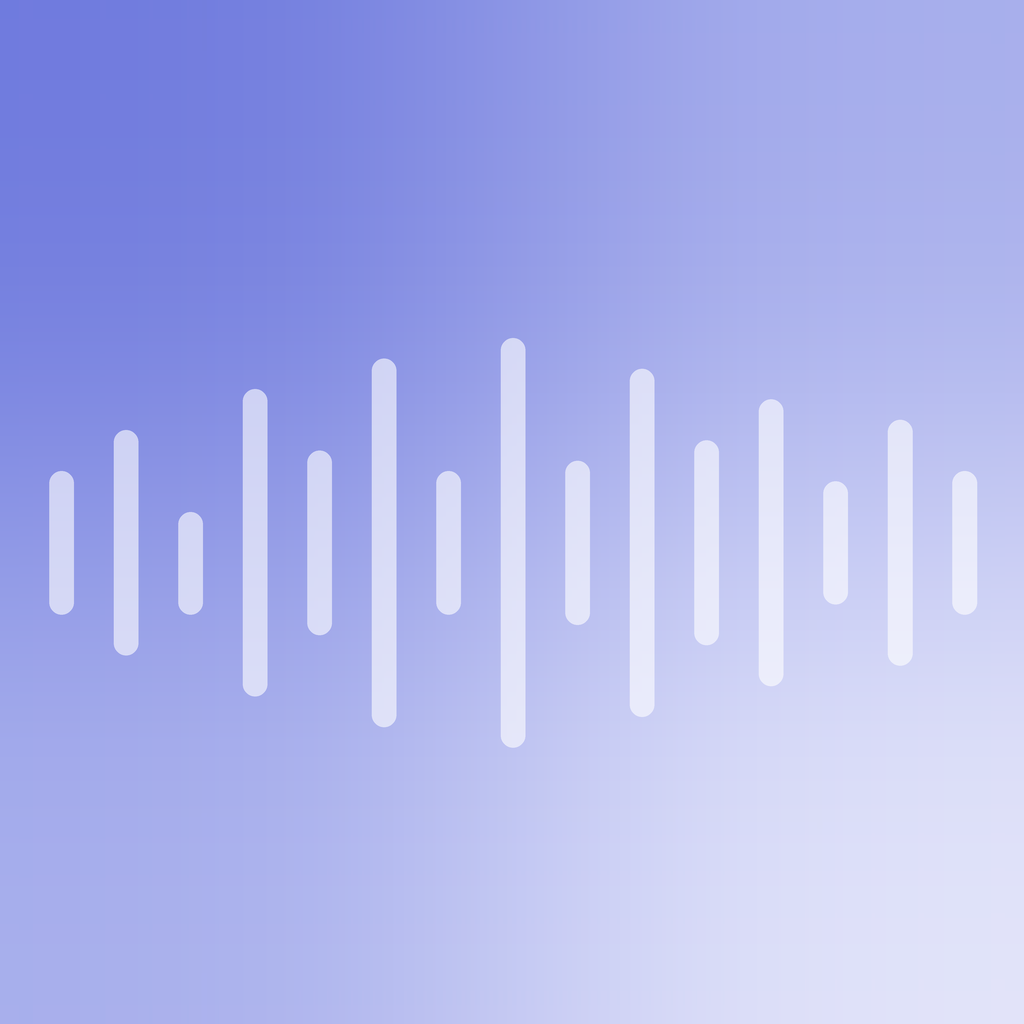
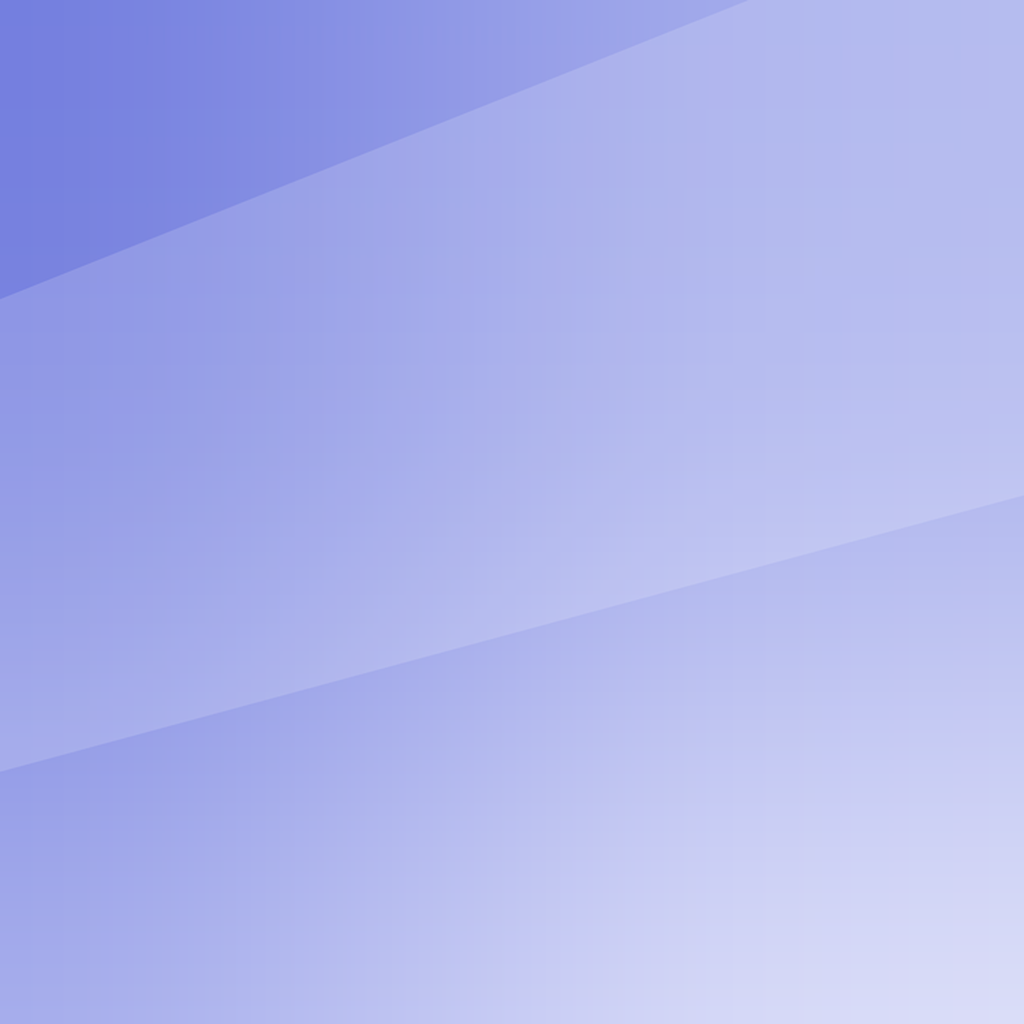
feat: アプリアイコンを刷新(波形入りクリップボードを見るシマエナガちゃん)
スタンプ抜き・うりつみとキャラの向きが被らないよう、左に立って右の
クリップボードを見る構図に変更。iOS/Androidで見た目のズームを統一する
ため、等倍描画してから同じ範囲でクロップ&リサイズする方式に揃えた。

Changed region(s): [[0.0312, 0.0938, 0.9688, 0.75]]

diff --git a/design/icons/gen_reporoku_assets.py b/design/icons/gen_reporoku_assets.py
@@ -1,9 +1,10 @@
 """レポろく アプリアイコン生成スクリプト(これが唯一の正)。
 
 アイコンを調整するときはこのファイルだけを編集する。
-座標は Claude との検討チャットで固まった「マイクを構えるシマエナガちゃん」構図
-(ペリウィンクルのグラデーション背景 / 正面向きの白いシマエナガ / スタンドマイク /
-背景を横切る白いイコライザー / 右上の録音ドット)をそのまま数値化したもの。
+座標は Claude との検討チャットで固まった「波形入りクリップボードを見るシマエナガちゃん」
+構図(ペリウィンクルのグラデーション背景 / 画面左のシマエナガ / 右の波形入り
+クリップボード)をそのまま数値化したもの。スタンプ抜き(正面)・うりつみ(右で左向き)
+とキャラの向き・位置が被らないよう、左に立って右のクリップボードを見る構図にしている。
 
     python3 gen_reporoku_assets.py            # プレビューを out/ に生成
     python3 gen_reporoku_assets.py --install  # app.json が参照する assets/ へ書き出し
@@ -36,18 +37,38 @@ WING = '#D8D8DC'
 ORANGE = '#FF9500'
 EYE = '#1C1C1E'
 CHEEK = '#FFD0D9'            # rgba(255,150,170,0.45) を白地に不透明合成した色
-MIC = '#3A3A3C'
+TAIL = '#3A3A3C'             # スタンプ抜き・うりつみと同じ尾の色
 GRILLE = '#D8D8DC'
-EQ_ALPHA = 153                # 白 60% 相当 (0-255)
+BAND_ALPHA = 40              # 背景を横切る白い帯の不透明度(うりつみと同じ)
+WOOD = '#B98452'             # クリップボード背面の木の板
+WOOD_DARK = '#9C6C3F'        # 木の板の縁(立体感)
+PAPER = '#F7F5EF'            # クリップボードの用紙
+CLIP = '#9498A6'             # クリップボードの金具
+
+# クリップボードを斜めに持っている角度と、回転の軸(鳥の羽が触れているあたり)。
+CLIP_TILT_DEG = -28
+CLIP_PIVOT = (58, 79)
+# クリップボード自体の大きさ(鳥に対する相対サイズ)。CLIP_PIVOT を中心に縮小する。
+CLIP_SCALE = 0.75
+# クリップボード全体を(dx, dy)だけずらす。羽(手)の位置に持っていくために使う。
+CLIP_POS = (38, -45)
+# クリップボードを左右反転させるか。
+CLIP_FLIP = True
+
+# シマエナガちゃんを時計回りに傾ける角度と、回転の軸(足元)。
+# 主役の傾きはクリップボード側。鳥は直立に近い、控えめな傾きにとどめる。
+BIRD_TILT_DEG = -10
+BIRD_PIVOT = (29, 82)
+
+# 本番アイコンに焼き込む「寄り」(検討時に気に入られた zoom_final.png のクロップを
+# ox/oy/scale に変換したもの。1024px 中 (150,20)-(990,730) のクロップに相当)。
+FULL_ZOOM_CROP = (220, 0, 970, 750)  # 750x750 の正方形。もっと寄った見た目
 REC = '#FF3B30'
 REC_PILL = (0, 0, 0, 140)     # 黒 55% 相当
 FONT_TEXT = '/System/Library/Fonts/Supplemental/Arial Bold.ttf'
 
 # Android の adaptiveIcon.backgroundColor(フォールバック)。app.json と一致させる。
 ANDROID_BG_COLOR = '#9AA0E8'
-
-# 108dp 中 66dp の円 = 全マスクで確実に残る範囲。半径は canvas 比で 0.3056。
-ADAPTIVE_SAFE_R = (66.0 / 108.0) / 2.0
 
 # Play ストア掲載用アイコン。Google 側の規定(512x512, 1MB 以下, アルファ不可)。
 STORE_ICON_SIZE = 512
@@ -58,14 +79,16 @@ STORE_ICON_MAX_BYTES = 1024 * 1024
 # 全ての図形は 100 基準の (x, y) で書く。Scene が (offset, scale) を
 # 適用してからスーパーサンプリング解像度のピクセルに変換する。
 class Scene:
-    def __init__(self, draw, ox=50.0, oy=50.0, scale=1.0):
+    def __init__(self, draw, ox=50.0, oy=50.0, scale=1.0, flip=False):
         self.d = draw
         self.ox = ox
         self.oy = oy
         self.s = scale
+        self.flip = flip  # True なら x を 100-x に鏡映してから配置する
 
     def xy(self, x, y):
-        return (self.ox + (x - 50.0) * self.s, self.oy + (y - 50.0) * self.s)
+        xx = (100.0 - x) if self.flip else x
+        return (self.ox + (xx - 50.0) * self.s, self.oy + (y - 50.0) * self.s)
 
     def pt(self, x, y):
         px, py = self.xy(x, y)
@@ -85,9 +108,12 @@ class Scene:
         ], fill=fill)
 
     def rounded_rect(self, x, y, w, h, r, fill):
-        ox, oy = self.xy(x, y)
+        # 両端を個別に xy() へ通してから min/max で正規化する。
+        # こうしておくと flip=True で x が鏡映されても矩形が壊れない。
+        x0, y0 = self.xy(x, y)
+        x1, y1 = self.xy(x + w, y + h)
         self.d.rounded_rectangle([
-            ox * S, oy * S, (ox + w * self.s) * S, (oy + h * self.s) * S,
+            min(x0, x1) * S, min(y0, y1) * S, max(x0, x1) * S, max(y0, y1) * S,
         ], radius=max(1.0, r * self.s * S), fill=fill)
 
     def polygon(self, pts, fill):
@@ -104,64 +130,113 @@ class Scene:
         bbox = self.d.textbbox((0, 0), s, font=font)
         self.d.text((px - bbox[0], py - (bbox[1] + bbox[3]) / 2), s, font=font, fill=fill)
 
-    def eye_closed(self, cx, cy, half_w, depth=3):
-        # SVG の "M cx-w,cy Q cx,cy+depth cx+w,cy" と同じ 2 次ベジェ曲線。
-        p0 = (cx - half_w, cy)
-        c = (cx, cy + depth)
-        p2 = (cx + half_w, cy)
-        pts = []
-        n = 16
-        for i in range(n + 1):
-            t = i / n
-            mt = 1 - t
-            x = mt * mt * p0[0] + 2 * mt * t * c[0] + t * t * p2[0]
-            y = mt * mt * p0[1] + 2 * mt * t * c[1] + t * t * p2[1]
-            pts.append((x, y))
-        w = 1.5
-        self.d.line(self.pts(*pts), fill=EYE, width=int(round(self.length(w))), joint='curve')
-        self.ellipse(p0[0], p0[1], w / 2, w / 2, EYE)
-        self.ellipse(p2[0], p2[1], w / 2, w / 2, EYE)
+    def eye_v(self, cx, cy, s, mirror=False):
+        # うりつみと同じ「>」「<」形の、くしゃっと閉じた目。内側に尖った折れ線。
+        m = -1 if mirror else 1
+        pts = [(cx - m * s, cy - s * 0.75), (cx + m * s * 0.55, cy), (cx - m * s, cy + s * 0.75)]
+        self.line(pts, EYE, 1.6)
+
+    def foot(self, hip, tip, w=2.0):
+        """脚1本。うりつみと同じく、指は脚の向きを基準に開くので、
+        傾けて持ち上げても足首の角度が揃う。"""
+        hx, hy = hip
+        tx, ty = tip
+        self.line([(hx, hy), (tx, ty)], ORANGE, w)
+        ux, uy = tx - hx, ty - hy
+        n = math.hypot(ux, uy) or 1.0
+        ux, uy = ux / n, uy / n
+        px, py = -uy, ux
+        r = 1.6
+        self.line([
+            (tx - px * r + ux * 0.6, ty - py * r + uy * 0.6),
+            (tx, ty),
+            (tx + px * r + ux * 0.6, ty + py * r + uy * 0.6),
+        ], ORANGE, w)
 
 
-EQ_BARS = [
-    (4.8, 46, 14), (11.1, 42, 22), (17.4, 50, 10), (23.7, 38, 30), (30, 44, 18),
-    (36.3, 35, 36), (42.6, 46, 14), (48.9, 33, 40), (55.2, 45, 16), (61.5, 36, 34),
-    (67.8, 43, 20), (74.1, 39, 28), (80.4, 47, 12), (86.7, 41, 24), (93, 46, 14),
-]
+
+def draw_clipboard(sc):
+    """右側の小道具:木の板を背面に持つ、波形入りクリップボード。
+    録音がノートになることを示す。斜めに持っている見た目にするため、
+    このレイヤーは呼び出し側で回転してから合成する。"""
+    # 背面の木の板(紙より一回り大きく、縁を少し暗くして立体感を出す)
+    sc.rounded_rect(51, 21, 41, 65, 5, WOOD_DARK)
+    sc.rounded_rect(52, 21.6, 39, 63, 4.6, WOOD)
+    # 用紙
+    sc.rounded_rect(57, 29, 30, 53, 3, PAPER)
+    # クリップの金具(板の上端を挟む)
+    sc.rounded_rect(65.5, 15, 13, 13, 3, CLIP)
+    sc.rounded_rect(68.5, 18.8, 7, 4, 1.5, PAPER)
+    # 波形(録音の記録であることを示す。用紙の中身だけ左右反転)
+    for x, h in [
+        (62, 16), (65.5, 10), (69, 18), (72.5, 12), (76, 22),
+        (79.5, 14), (83, 8),
+    ]:
+        sc.rounded_rect(x, 45 - h / 2, 2.2, h, 1.1, ORANGE)
+    # 書き起こしたメモの行(右寄せに反転)
+    sc.rounded_rect(61, 61, 21, 3, 1.5, GRILLE)
+    sc.rounded_rect(67, 67, 15, 3, 1.5, GRILLE)
+    sc.rounded_rect(64, 73, 18, 3, 1.5, GRILLE)
 
 
-def draw_eq(sc, alpha_img_draw):
-    """背景を横切る白いイコライザー。半透明なので専用レイヤーに描く。"""
-    for x, y, h in EQ_BARS:
-        sc.rounded_rect(x, y, 2.4, h, 1.2, (255, 255, 255, EQ_ALPHA))
+def render_clipboard_layer(ox, oy, scale):
+    """クリップボード一式を CLIP_PIVOT を中心に CLIP_SCALE 倍したうえで、
+    同じ点を軸に斜めへ回転させたレイヤーを返す。"""
+    layer = new_canvas()
+    d = ImageDraw.Draw(layer, 'RGBA')
+    inner_scale = scale * CLIP_SCALE
+    ax, ay = CLIP_PIVOT
+    dx, dy = CLIP_POS
+    # flip 時は xy() が x を (100-x) に鏡映するため、CLIP_PIVOT が動かないよう
+    # 「実際に使われる x」(eff_ax) で打ち消し量を計算し直す。
+    eff_ax = (100.0 - ax) if CLIP_FLIP else ax
+    inner_ox = ox + (ax - 50.0) * scale - (eff_ax - 50.0) * inner_scale + dx * inner_scale
+    inner_oy = oy + (ay - 50.0) * scale * (1 - CLIP_SCALE) + dy * inner_scale
+    sc = Scene(d, ox=inner_ox, oy=inner_oy, scale=inner_scale, flip=CLIP_FLIP)
+    draw_clipboard(sc)
+    pivot_px = sc.pt(*CLIP_PIVOT)
+    # 反射(flip)のあとに回転すると、回転の向きが打ち消し合う形になるため、
+    # flip 時は角度の符号を反転させて本当の鏡映結果にする。
+    tilt = -CLIP_TILT_DEG if CLIP_FLIP else CLIP_TILT_DEG
+    return layer.rotate(tilt, resample=Image.BICUBIC, center=pivot_px)
 
 
-def draw_illustration(sc, d):
-    # 体
-    sc.ellipse(50, 54, 29, 31, BODY)
-    # 羽(ハの字、体に少し食い込む)
-    _rotated_ellipse(sc, 72, 68, 6, 10, 25, WING)
-    _rotated_ellipse(sc, 28, 68, 6, 10, -25, WING)
-    # 足
-    sc.line([(45, 84), (45, 89)], ORANGE, 2)
-    sc.line([(43, 90), (45, 89), (47, 90)], ORANGE, 2)
-    sc.line([(55, 84), (55, 89)], ORANGE, 2)
-    sc.line([(53, 90), (55, 89), (57, 90)], ORANGE, 2)
-    # 目(閉じたまぶた)
-    sc.eye_closed(42, 45, 3)
-    sc.eye_closed(58, 45, 3)
-    # くちばし
-    sc.polygon([(47, 52), (53, 52), (50, 58)], ORANGE)
+def draw_bird(sc):
+    # 尾(スタンプ抜き・うりつみと同じ形を左側へ反転。見切れず、かつ短すぎない長さに)
+    sc.polygon([(25, 71), (9, 79), (10, 84), (27, 78)], TAIL)
+    # 体(画面左側)
+    sc.ellipse(29, 57, 22, 24, BODY)
+    # 羽(奥の羽 + クリップボードを持つ羽)
+    _rotated_ellipse(sc, 11, 67, 5, 8, 40, WING)
+    _rotated_ellipse(sc, 53, 43, 5, 9, 55, WING)
+    # 足(左は持ち上げ、右は垂直な軸足)
+    sc.foot((23, 78), (16, 83))  # 左足
+    sc.foot((35, 78), (36.5, 86.5))  # 右足(左足と同じ長さに揃える)
+    # 目(うりつみと同じ、くしゃっとした「>」「<」。顔のパーツは右へ寄せる)
+    sc.eye_v(28, 48, 3.0, mirror=False)
+    sc.eye_v(38, 48, 3.0, mirror=True)
     # ほっぺ
-    sc.ellipse(36, 54, 3.5, 3.5, CHEEK)
-    sc.ellipse(64, 54, 3.5, 3.5, CHEEK)
-    # マイク(スタンド型、胸の前)
-    sc.rounded_rect(39.5, 50, 21, 30, 10.5, MIC)
-    sc.line([(43, 58), (57, 58)], GRILLE, 2)
-    sc.line([(43, 65), (57, 65)], GRILLE, 2)
-    sc.line([(43, 72), (57, 72)], GRILLE, 2)
-    sc.line([(50, 80), (50, 94)], MIC, 5.4)
-    sc.rounded_rect(35, 95, 30, 4.5, 2.25, MIC)
+    sc.ellipse(22, 57, 3, 3, CHEEK)
+    sc.ellipse(44, 57, 3, 3, CHEEK)
+    # くちばし
+    sc.polygon([(30.5, 55), (35.5, 55), (33, 60)], ORANGE)
+
+
+def render_bird_layer(ox, oy, scale):
+    """鳥一式を描いてから BIRD_PIVOT を軸に時計回りへ少し回転させたレイヤーを返す。"""
+    layer = new_canvas()
+    d = ImageDraw.Draw(layer, 'RGBA')
+    sc = Scene(d, ox=ox, oy=oy, scale=scale)
+    draw_bird(sc)
+    pivot_px = sc.pt(*BIRD_PIVOT)
+    return layer.rotate(BIRD_TILT_DEG, resample=Image.BICUBIC, center=pivot_px)
+
+
+def draw_illustration(base_rgba, ox=50, oy=50, scale=1.0):
+    """base_rgba(CANVAS 解像度の RGBA)に鳥(斜め)とクリップボード(斜め・前面)を描き込んで返す。"""
+    composed = Image.alpha_composite(base_rgba, render_bird_layer(ox, oy, scale))
+    composed = Image.alpha_composite(composed, render_clipboard_layer(ox, oy, scale))
+    return composed
 
 
 def _rotated_ellipse(sc, cx, cy, rx, ry, angle_deg, fill):
@@ -175,32 +250,6 @@ def _rotated_ellipse(sc, cx, cy, rx, ry, angle_deg, fill):
         ryp = ex * math.sin(ang) + ey * math.cos(ang)
         raw.append((cx + rxp, cy + ryp))
     sc.d.polygon(sc.pts(*raw), fill=fill)
-
-
-def compute_illust_bbox():
-    """イラスト(鳥+マイク)を scale=1 で描いて実際の alpha 外接矩形を測る。
-    手で見積もった bbox だとズレて安全マージンを無駄に取ってしまうため、
-    Android アダプティブアイコンの適合率は毎回これで実測する。"""
-    img = new_canvas()
-    d = ImageDraw.Draw(img, 'RGBA')
-    sc = Scene(d, ox=50, oy=50, scale=1.0)
-    draw_illustration(sc, d)
-    box = img.getbbox()
-    if box is None:
-        raise SystemExit('イラストが空です')
-    x0, y0, x1, y1 = box
-    return (x0 / S, y0 / S, x1 / S, y1 / S)
-
-
-def fit_scale_and_offset(bbox, safe_r_frac):
-    """bbox の対角線が安全円に完全に収まるスケール。真円ランチャーでも絶対に欠けない。"""
-    x0, y0, x1, y1 = bbox
-    cx, cy = (x0 + x1) / 2, (y0 + y1) / 2
-    half_w, half_h = (x1 - x0) / 2, (y1 - y0) / 2
-    half_diag = math.hypot(half_w, half_h)
-    safe_r = safe_r_frac * 100.0
-    scale = safe_r / half_diag
-    return scale, cx, cy
 
 
 def diagonal_gradient(size, c0, c1):
@@ -230,46 +279,43 @@ def downsample(img):
     return img.resize((OUT, OUT), Image.LANCZOS)
 
 
-def gradient_with_eq():
-    """グラデーション + 白いイコライザーを合成した、CANVAS 解像度の RGBA。"""
+def render_gradient():
+    """ペリウィンクルの対角線グラデーション + うりつみと同じ斜めの白い帯。CANVAS 解像度の RGBA。"""
     bg = diagonal_gradient(CANVAS, hex_to_rgb(BG_TOP), hex_to_rgb(BG_BOTTOM)).convert('RGBA')
-    eq_layer = Image.new('RGBA', (CANVAS, CANVAS), (0, 0, 0, 0))
-    eq_draw = ImageDraw.Draw(eq_layer)
-    sc_eq = Scene(eq_draw, ox=50, oy=50, scale=1.0)
-    draw_eq(sc_eq, eq_draw)
-    return Image.alpha_composite(bg, eq_layer)
+    band = new_canvas()
+    band_draw = ImageDraw.Draw(band, 'RGBA')
+    sc = Scene(band_draw, ox=50, oy=50, scale=1.0)
+    # 左端(0)ほど帯を少しだけ細く、右端(100)は元の太さのまま(うりつみに近い控えめな先細り)
+    sc.polygon([(0, 30), (100, -10), (100, 34), (0, 61)], (255, 255, 255, BAND_ALPHA))
+    return Image.alpha_composite(bg, band)
 
 
 def render_full_icon():
-    """iOS / expo 汎用アイコン。背景を全面焼き込んだ 1 枚(OS が角丸マスクをかける)。"""
-    composed = gradient_with_eq()
-    d = ImageDraw.Draw(composed, 'RGBA')
-    sc = Scene(d, ox=50, oy=50, scale=1.0)
-    draw_illustration(sc, d)
-    return downsample(composed).convert('RGB')
+    """iOS / expo 汎用アイコン。背景を全面焼き込んだ 1 枚(OS が角丸マスクをかける)。
+    Scene のズーム(scale>1)はキャンバスの外側に描く余白が無く縁が切れてしまうため、
+    等倍で描いた画像を実際にクロップ&リサイズしてズームする。"""
+    composed = draw_illustration(render_gradient())
+    full = downsample(composed).convert('RGB')
+    x0, y0, x1, y1 = FULL_ZOOM_CROP
+    return full.crop((x0, y0, x1, y1)).resize((OUT, OUT), Image.LANCZOS)
 
 
 def render_adaptive_foreground():
-    """Android アダプティブアイコンの前景。透過 PNG。66/108 のセーフサークルに収める。"""
-    img = new_canvas()
-    d = ImageDraw.Draw(img, 'RGBA')
-    scale, cx, cy = fit_scale_and_offset(compute_illust_bbox(), ADAPTIVE_SAFE_R)
-    sc = Scene(d, ox=50, oy=50, scale=scale)
-    orig_xy = sc.xy
-
-    def shifted_xy(x, y, _orig=orig_xy, _cx=cx, _cy=cy):
-        return _orig(x - (_cx - 50.0), y - (_cy - 50.0))
-
-    sc.xy = shifted_xy
-    draw_illustration(sc, d)
-    return downsample(img)
+    """Android アダプティブアイコンの前景。透過 PNG。
+    iOS の本番アイコン(render_full_icon)と同じ FULL_ZOOM_CROP で切り出し、
+    見た目のズーム感を両OSで揃える。"""
+    img = draw_illustration(new_canvas())
+    full = downsample(img)
+    x0, y0, x1, y1 = FULL_ZOOM_CROP
+    return full.crop((x0, y0, x1, y1)).resize((OUT, OUT), Image.LANCZOS)
 
 
 def render_adaptive_background():
-    """アダプティブアイコンの背景レイヤー。
-    イコライザーは前景(セーフゾーンに収める鳥+マイク)に含めると外接矩形が
-    横に広がって鳥が小さくなってしまうため、常に全面表示される背景側に焼き込む。"""
-    return downsample(gradient_with_eq()).convert('RGB')
+    """アダプティブアイコンの背景レイヤー(グラデーションのみ)。前景と同じクロップを適用し、
+    帯の位置が前景とズレないようにする。"""
+    full = downsample(render_gradient()).convert('RGB')
+    x0, y0, x1, y1 = FULL_ZOOM_CROP
+    return full.crop((x0, y0, x1, y1)).resize((OUT, OUT), Image.LANCZOS)
 
 
 def render_monochrome(fg_rgba_1024):
